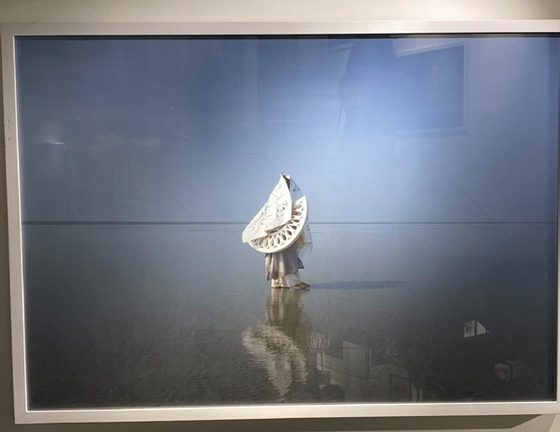
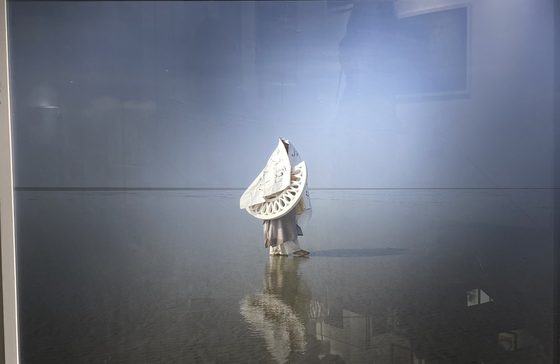
Afraa Ahmed (Memory): full-size opening-night photos of her five prints

diff --git a/assets/works.js b/assets/works.js
@@ -8,11 +8,11 @@ window.WORKS = {
 ["Abeer Adel","Life and livelihood","30.5x34","","Linocut print","One of a series of 3",[["memory--abeer-adel--life-and-livelihood-0-0",799,976]]],
 ["Abeer Adel","Life and livelihood","30.5x34","","Linocut print","One of a series of 3",[["memory--abeer-adel--life-and-livelihood-0-1",843,983]]],
 ["Abeer Adel","Life and livelihood","30.5x34","","Linocut print","One of a series of 3",[["memory--abeer-adel--life-and-livelihood-0-2",848,983]]],
-["Afraa Ahmed","In Transition","100x70","2021","Colour digital print on Epson premium semi-matte photo paper","",[["memory--afraa-ahmed--in-transition",597,461]]],
-["Afraa Ahmed","Extension","100x70","2021","Colour digital print on Epson premium semi-matte photo paper","",[["memory--afraa-ahmed--extension",638,461]]],
-["Afraa Ahmed","A warm sense of belonging","100x70","2021","Colour digital print on Epson premium semi-matte photo paper","",[["memory--afraa-ahmed--a-warm-sense-of-belonging",601,443]]],
-["Afraa Ahmed","Embodiment","100x70","2021","Colour digital print on Epson premium semi-matte photo paper","",[["memory--afraa-ahmed--embodiment",638,438]]],
-["Afraa Ahmed","Moon window","50x50","2021","Colour digital print on Epson premium semi-matte photo paper","",[["memory--afraa-ahmed--moon-window",507,509]]],
+["Afraa Ahmed","In Transition","100x70","2021","Colour digital print on Epson premium semi-matte photo paper","",[["memory--afraa-ahmed--in-transition",1600,1041]]],
+["Afraa Ahmed","Extension","100x70","2021","Colour digital print on Epson premium semi-matte photo paper","",[["memory--afraa-ahmed--extension",1600,1060]]],
+["Afraa Ahmed","A warm sense of belonging","100x70","2021","Colour digital print on Epson premium semi-matte photo paper","",[["memory--afraa-ahmed--a-warm-sense-of-belonging",1600,1073]]],
+["Afraa Ahmed","Embodiment","100x70","2021","Colour digital print on Epson premium semi-matte photo paper","",[["memory--afraa-ahmed--embodiment",1600,1087]]],
+["Afraa Ahmed","Moon window","50x50","2021","Colour digital print on Epson premium semi-matte photo paper","",[["memory--afraa-ahmed--moon-window",1600,1563,1]]],
 ["Afraa Ahmed","Safety blanket","80x200","2021","Acrylic on canvas","",[["memory--afraa-ahmed--safety-blanket",630,1400]]],
 ["Agnes Michalczyk","Bathers","21x29.7","2022","Acrylic on paper","One of a series of 5",[["memory--agnes-michalczyk--bathers-7-0",504,728]]],
 ["Agnes Michalczyk","Bathers","21x29.7","2022","Acrylic on paper","One of a series of 5",[["memory--agnes-michalczyk--bathers-7-1",522,728]]],
